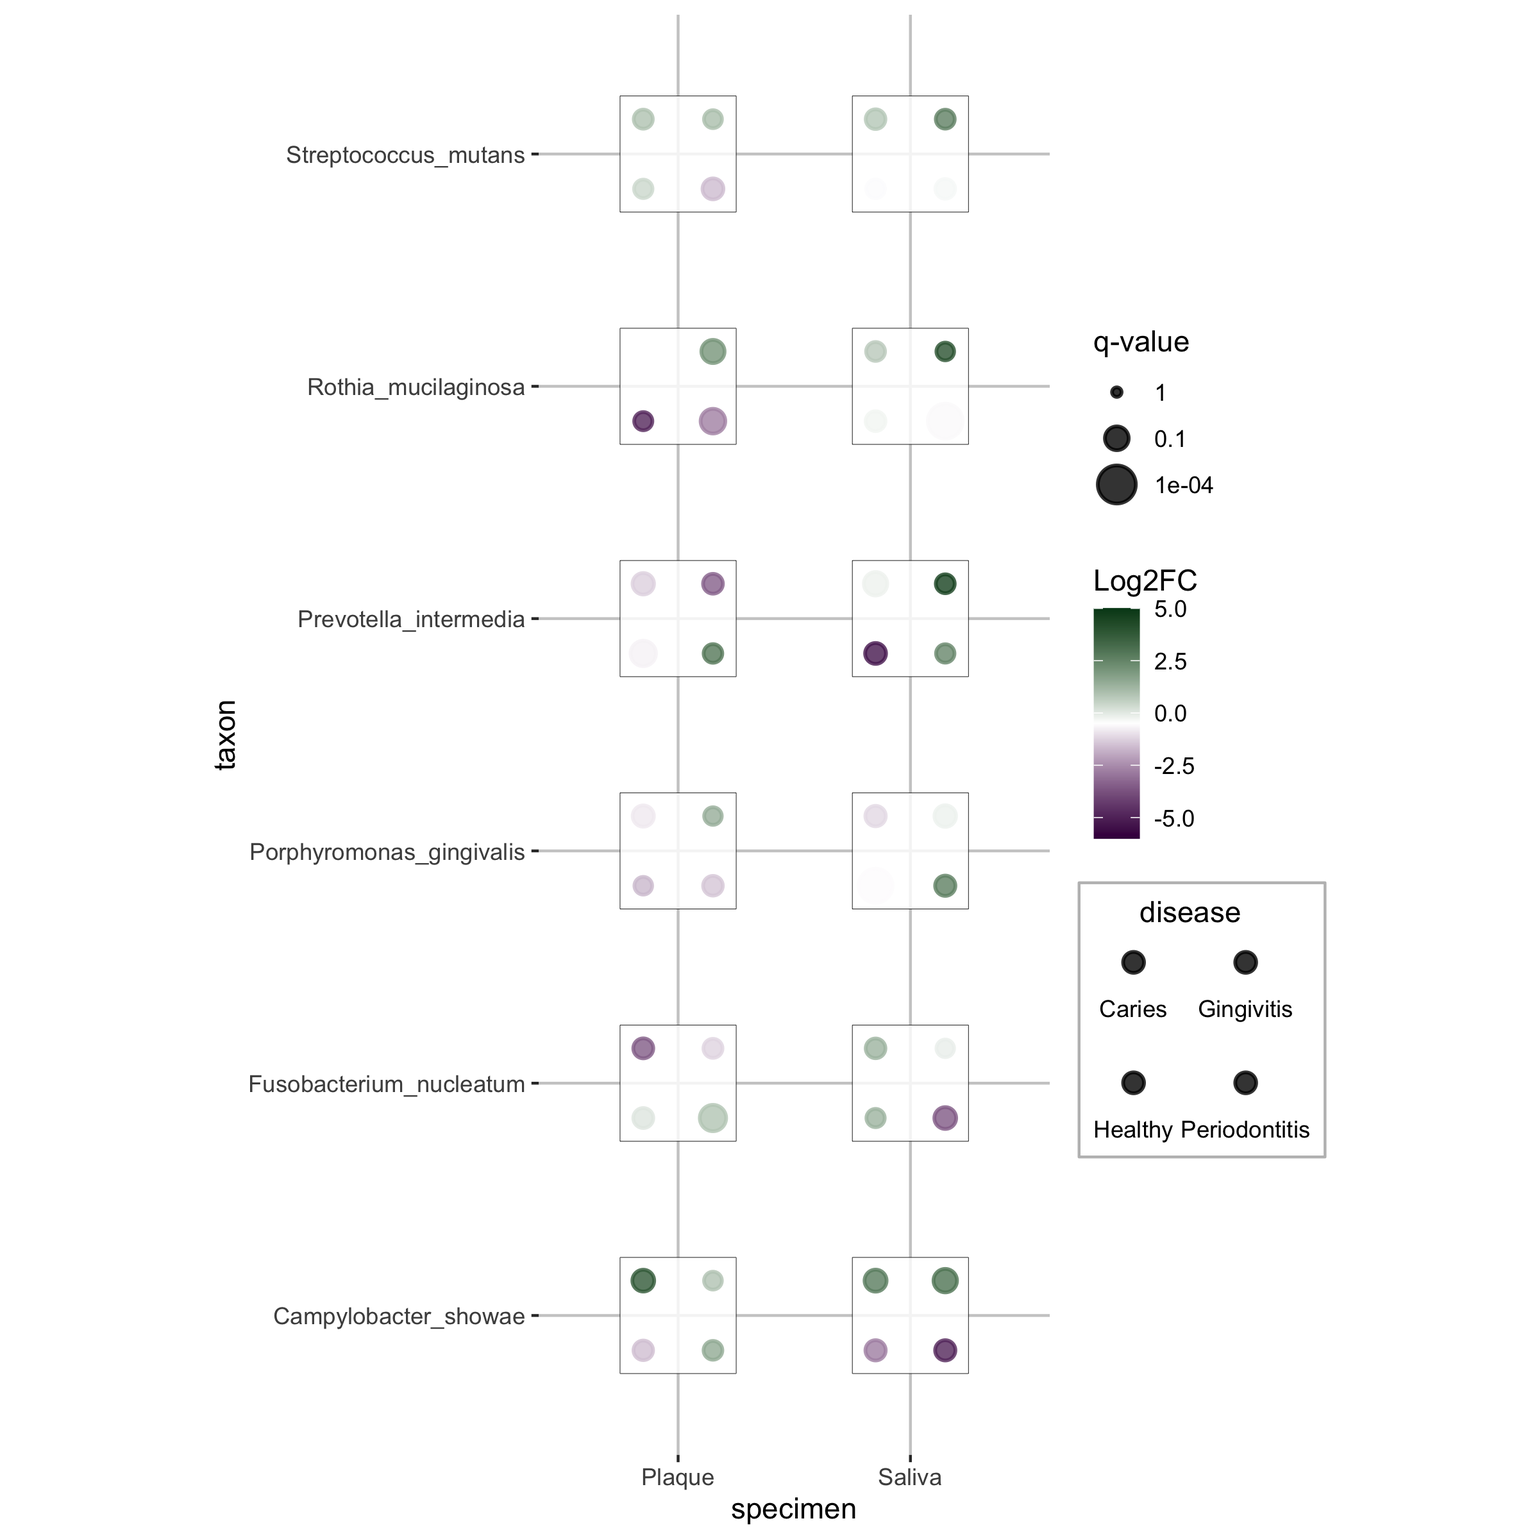
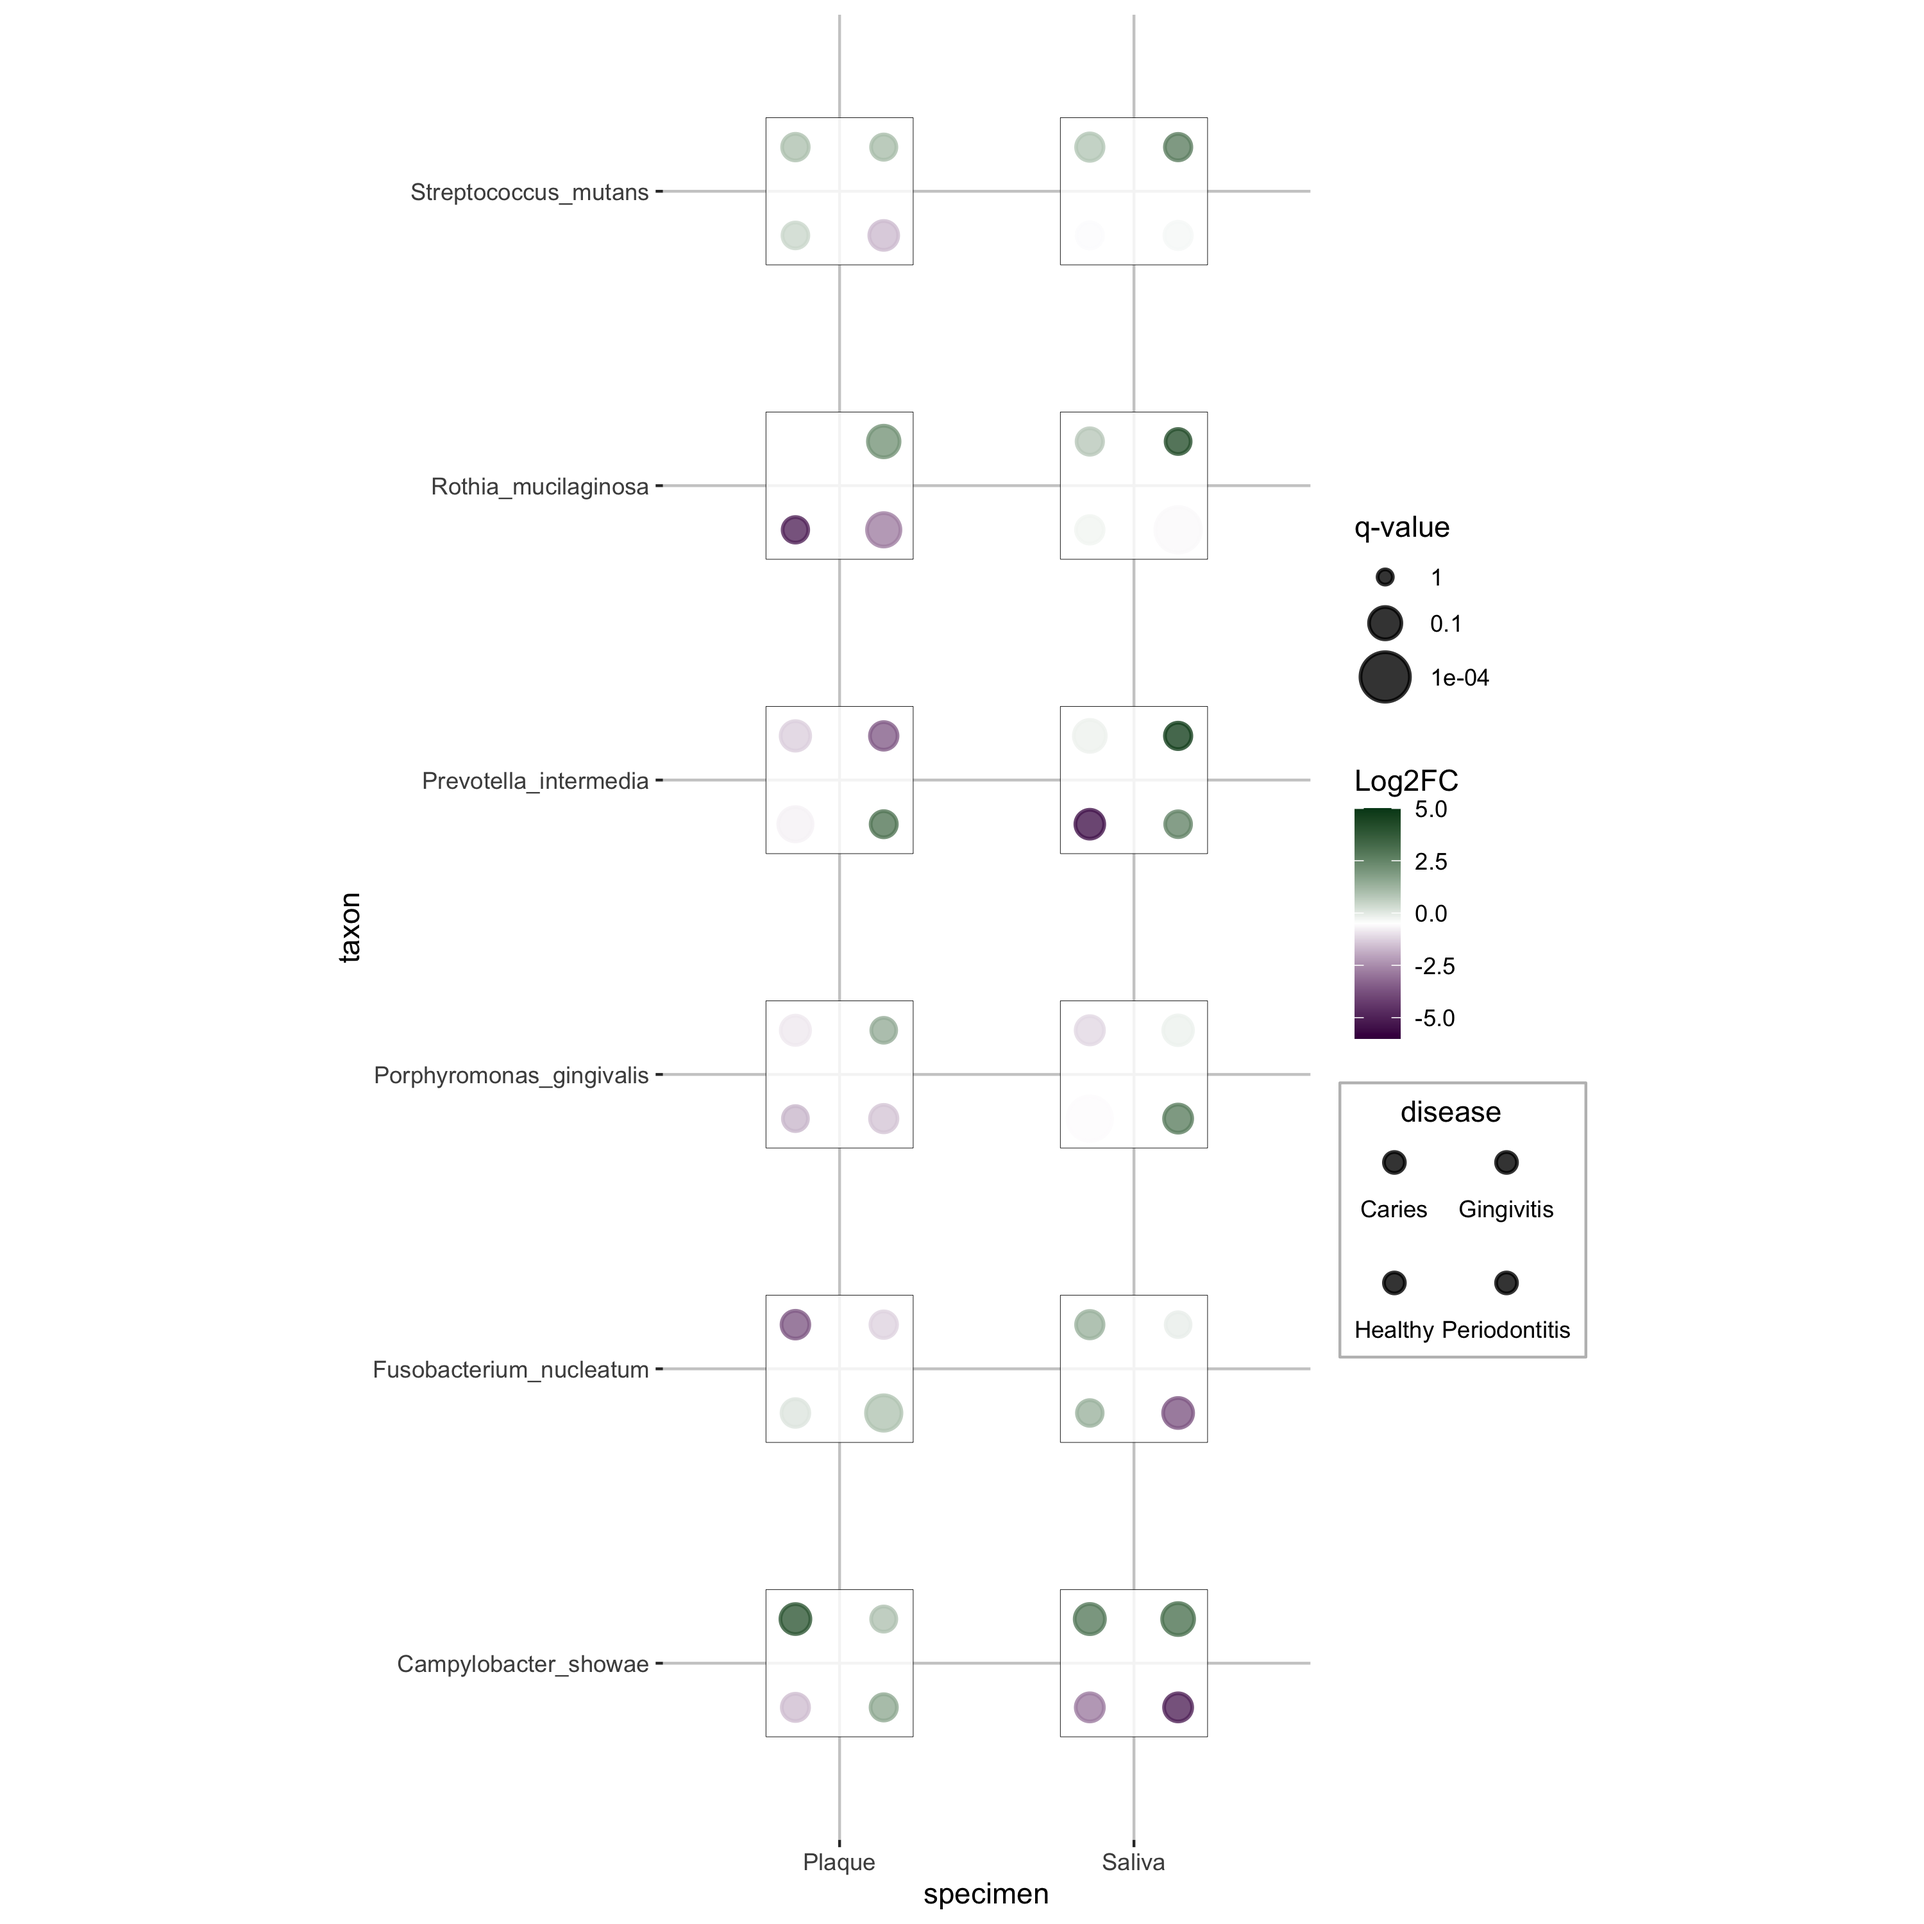
update examples

diff --git a/README.md b/README.md
@@ -15,59 +15,50 @@ A ggplot2 extension for creating dice plot visualizations, where each dice repre
 ```r
 # Install from local directory
 devtools::install_local("path/to/ggdiceplot")
-
-# Or install dependencies manually
-install.packages(c("ggplot2", "tibble"))
 ```
 
 ```r
 install.packages(c("ggdiceplot"))
 ```
 
-## Example: Taxonomy 
+## Example: Taxonomy
 
 ```r
 library(ggplot2)
 library(ggdiceplot)
 
-# Create sample data
 data("sample_dice_data1", package = "ggdiceplot")
-toy_data = sample_dice_data1
-# Effect size
-lo = floor(min(toy_data$lfc, na.rm = TRUE))
-up = ceiling(max(toy_data$lfc, na.rm=TRUE))
-mid = (lo + up)/2
+toy_data <- sample_dice_data1
 
-minsize = floor(min(-log10(toy_data$q), na.rm=TRUE))
-maxsize = ceiling(max(-log10(toy_data$q), na.rm=TRUE))
-midsize = ceiling(quantile(-log10(toy_data$q), c(0.5), na.rm=TRUE))
+lo      <- floor(min(toy_data$lfc, na.rm = TRUE))
+up      <- ceiling(max(toy_data$lfc, na.rm = TRUE))
+mid     <- (lo + up) / 2
+minsize <- floor(min(-log10(toy_data$q), na.rm = TRUE))
+maxsize <- ceiling(max(-log10(toy_data$q), na.rm = TRUE))
+midsize <- ceiling(quantile(-log10(toy_data$q), 0.5, na.rm = TRUE))
 
-#
-## PLOT
-#
-
-ggplot(toy_data, aes(x=specimen, y=taxon)) +
-  geom_dice(aes(dots=disease, fill=lfc, size=-log10(q), 
-                # Square dims
-                width = 0.5, height = 0.5),
-            # For legend display
-            show.legend=TRUE, 
-            # For legend position calculation
-            ndots=length(unique(toy_data$disease)),
-            # For aspect.ratio: ensure squares (now automatic with coord_fixed)
-            x_length = length(unique(toy_data$specimen)), 
-            y_length = length(unique(toy_data$taxon)), 
-  )+
-  scale_fill_continuous(name="lfc") +
-  scale_fill_gradient2(low = "#40004B", high = "#00441B", mid = "white",
-                       na.value = "white", 
-                       limit = c(lo, up),
-                       midpoint = mid, 
-                       name = "Log2FC") +
-  scale_size_continuous(limits = c(minsize, maxsize),
-                        breaks = c(minsize, midsize, maxsize),
-                        labels = c(10^minsize, 10^-midsize, 10^-maxsize),
-                        name = "q-value")
+ggplot(toy_data, aes(x = specimen, y = taxon)) +
+  geom_dice(
+    aes(dots = disease, fill = lfc, size = -log10(q), width = 0.5, height = 0.5),
+    na.rm       = TRUE,
+    show.legend = TRUE,
+    ndots       = length(unique(toy_data$disease)),
+    x_length    = length(unique(toy_data$specimen)),
+    y_length    = length(unique(toy_data$taxon))
+  ) +
+  scale_fill_continuous(name = "lfc") +
+  scale_fill_gradient2(
+    low = "#40004B", high = "#00441B", mid = "white",
+    na.value = "white", limit = c(lo, up), midpoint = mid,
+    name = "Log2FC"
+  ) +
+  scale_size_continuous(
+    range  = c(2, 8),
+    limits = c(minsize, maxsize),
+    breaks = c(minsize, midsize, maxsize),
+    labels = c(10^minsize, 10^-midsize, 10^-maxsize),
+    name   = "q-value"
+  )
 ```
 
 ![](demo_output/example1.png)
@@ -75,51 +66,19 @@ ggplot(toy_data, aes(x=specimen, y=taxon)) +
 ## Example: miRNA dysregulation
 
 ```r
-## ---- SETUP ----
 library(ggplot2)
 library(ggdiceplot)
 
-## ---- LOAD SAMPLE DATA (from package) ----
-# If internal dataset exists, use it; otherwise fall back to df_dice
-if ("sample_dice_miRNA" %in% data(package="ggdiceplot")$results[, "Item"]) {
-  data("sample_dice_miRNA", package = "ggdiceplot")
-  df_dice <- sample_dice_miRNA
-} else {
-  message("sample_dice_miRNA not found in package — using inline example.")
-  
-  df_dice <- data.frame(
-    miRNA = c("miR-1","miR-1","miR-1","miR-2","miR-2","miR-2","miR-3","miR-3"),
-    Compound = c("Compound_1","Compound_1","Compound_2","Compound_1","Compound_2","Compound_3","Compound_3","Compound_1"),
-    Organ = c("Lung","Brain","Liver","Lung","Liver","Brain","Liver","Brain"),
-    log2FC = c(1.2,-0.8,0.3,-1.1,0.6,2,-0.5,1.5)
-  )
-  
-  df_dice$direction <- ifelse(df_dice$log2FC > 0.5, "Up",
-                              ifelse(df_dice$log2FC < -0.5, "Down","Unchanged"))
-  
-  df_dice$Organ     <- factor(df_dice$Organ, levels = c("Lung","Liver","Brain"))
-  df_dice$direction <- factor(df_dice$direction, levels = c("Down","Unchanged","Up"))
-  df_dice$Compound  <- factor(df_dice$Compound, levels = c("Compound_1","Compound_2","Compound_3"))
-  df_dice$miRNA     <- factor(df_dice$miRNA)
-}
+data("sample_dice_miRNA", package = "ggdiceplot")
+df_dice <- sample_dice_miRNA
 
-## ---- COLORS ----
-direction_colors <- c(
-  Down      = "#2166ac",
-  Unchanged = "grey80",
-  Up        = "#b2182b"
-)
+direction_colors <- c(Down = "#2166ac", Unchanged = "grey80", Up = "#b2182b")
 
-## ---- PLOT ----
-p_dice <- ggplot(df_dice, aes(x = miRNA, y = Compound)) +
+ggplot(df_dice, aes(x = miRNA, y = Compound)) +
   geom_dice(
-    aes(
-      dots  = Organ,
-      fill  = direction,
-      width = 0.8,
-      height = 0.8
-    ),
+    aes(dots = Organ, fill = direction, width = 0.8, height = 0.8),
     show.legend = TRUE,
+    pip_fill    = 1.0,
     ndots       = length(levels(df_dice$Organ)),
     x_length    = length(levels(df_dice$miRNA)),
     y_length    = length(levels(df_dice$Compound))
@@ -136,12 +95,11 @@ p_dice <- ggplot(df_dice, aes(x = miRNA, y = Compound)) +
     x = "miRNA",
     y = "Compound"
   )
-
-print(p_dice)
 ```
-![](demo_output/example2.png)
 
-## Example 3: ZEBRA Domino Plot
+![](demo_output/example_miRNA.png)
+
+## Example: ZEBRA Domino Plot
 
 This example demonstrates using `geom_dice()` to create a domino plot for gene expression analysis across multiple diseases and cell types.
 
@@ -151,82 +109,61 @@ library(ggdiceplot)
 library(dplyr)
 library(tidyr)
 
-# Load ZEBRA dataset
 zebra.df <- read.csv("legacy examples/data/ZEBRA_sex_degs_set.csv")
-
-# Select genes of interest
 genes <- c("SPP1", "APOE", "SERPINA1", "PINK1", "ANGPT1", "ANGPT2", "APP", "CLU", "ABCA7")
 
-# Filter and prepare data
-zebra.df <- zebra.df %>% 
+zebra.df <- zebra.df %>%
   filter(gene %in% genes) %>%
   filter(contrast %in% c("MS-CT", "AD-CT", "ASD-CT", "FTD-CT", "HD-CT")) %>%
   mutate(
     cell_type = factor(cell_type, levels = sort(unique(cell_type))),
-    contrast = factor(contrast, levels = c("MS-CT", "AD-CT", "ASD-CT", "FTD-CT", "HD-CT")),
-    gene = factor(gene, levels = genes)
+    contrast  = factor(contrast, levels = c("MS-CT", "AD-CT", "ASD-CT", "FTD-CT", "HD-CT")),
+    gene      = factor(gene, levels = genes)
   ) %>%
   filter(PValue < 0.05) %>%
   group_by(gene, cell_type, contrast) %>%
-  summarise(
-    logFC = mean(logFC, na.rm = TRUE),
-    FDR = min(FDR, na.rm = TRUE),
-    .groups = "drop"
-  ) %>%
-  complete(gene, cell_type, contrast, fill = list(logFC = NA, FDR = NA))
+  summarise(logFC = mean(logFC, na.rm = TRUE), FDR = min(FDR, na.rm = TRUE), .groups = "drop") %>%
+  complete(gene, cell_type, contrast, fill = list(logFC = NA_real_, FDR = NA_real_))
 
-# Calculate scale limits
-lo <- floor(min(zebra.df$logFC, na.rm = TRUE))
-up <- ceiling(max(zebra.df$logFC, na.rm = TRUE))
-mid <- (lo + up) / 2
-
+lo      <- floor(min(zebra.df$logFC, na.rm = TRUE))
+up      <- ceiling(max(zebra.df$logFC, na.rm = TRUE))
+mid     <- (lo + up) / 2
 minsize <- floor(min(-log10(zebra.df$FDR), na.rm = TRUE))
 maxsize <- ceiling(max(-log10(zebra.df$FDR), na.rm = TRUE))
-midsize <- ceiling(quantile(-log10(zebra.df$FDR), c(0.5), na.rm = TRUE))
+midsize <- ceiling(quantile(-log10(zebra.df$FDR), 0.5, na.rm = TRUE))
 
-# Create domino plot
 ggplot(zebra.df, aes(x = gene, y = cell_type)) +
   geom_dice(
-    aes(
-      dots = contrast,
-      fill = logFC,
-      size = -log10(FDR)
-    ),
-    na.rm = TRUE,
+    aes(dots = contrast, fill = logFC, size = -log10(FDR)),
+    na.rm       = TRUE,
     show.legend = TRUE,
-    ndots = 5,  # We have 5 contrasts
-    x_length = length(genes),
-    y_length = length(unique(zebra.df$cell_type))
+    ndots       = 5,
+    x_length    = length(genes),
+    y_length    = length(unique(zebra.df$cell_type))
   ) +
   scale_fill_gradient2(
-    low = "#40004B",
-    high = "#00441B",
-    mid = "white",
-    na.value = "white",
-    limit = c(lo, up),
-    midpoint = mid,
+    low = "#40004B", high = "#00441B", mid = "white",
+    na.value = "white", limit = c(lo, up), midpoint = mid,
     name = "Log2FC"
   ) +
   scale_size_continuous(
     limits = c(minsize, maxsize),
     breaks = c(minsize, midsize, maxsize),
     labels = c(10^minsize, 10^-midsize, 10^-maxsize),
-    name = "FDR"
+    name   = "FDR"
   ) +
   theme_minimal() +
   theme(
-    axis.text.x = element_text(angle = 45, hjust = 1, size = 12),
-    axis.text.y = element_text(size = 12),
-    legend.text = element_text(size = 12),
-    legend.title = element_text(size = 12),
-    legend.key = element_blank(),
+    axis.text.x     = element_text(angle = 45, hjust = 1, size = 12),
+    axis.text.y     = element_text(size = 12),
+    legend.text     = element_text(size = 12),
+    legend.title    = element_text(size = 12),
+    legend.key      = element_blank(),
     legend.key.size = unit(0.8, "cm")
   ) +
-  labs(
-    x = "Gene",
-    y = "Cell Type",
-    title = "ZEBRA Sex DEGs Domino Plot"
-  )
+  labs(x = "Gene", y = "Cell Type", title = "ZEBRA Sex DEGs Domino Plot")
+
+ggsave("ZEBRA_domino_example.png", width = 12, height = 14, dpi = 300)
 ```
 
 ![](demo_output/ZEBRA_domino_example.png)
@@ -234,40 +171,35 @@ ggplot(zebra.df, aes(x = gene, y = cell_type)) +
 ## Features
 
 - **1:1 Aspect Ratio**: Dice automatically appear as perfect squares using `coord_fixed(ratio = 1)`
-- **Automatic Sizing**: Dice automatically scale based on grid density
-- **Boundary Safety**: Dice stay within plot boundaries
-- **Flexible Mapping**: Map any categories to dice positions 1-6
+- **Automatic Pip Scaling**: `pip_fill` (0–1) controls pip diameter as a fraction of the maximum available space. `pip_fill = 1.0` fills the die face fully; set to `NULL` to use a fixed size
+- **Boundary Safety**: Pips never exceed tile borders; positions shift inward as density increases
+- **Flexible Mapping**: Map any categories to dice positions 1–6
 - **Multiple Applications**: Gene expression, survey data, clinical trials, market research
-- **Customizable**: Control dice size, colors, and positioning
+- **Customizable**: Control dice size, colors, pip density, and positioning
 
-## Important Update
+## Key Parameters
 
-**Automatic Aspect Ratio Control**: As of the latest version, `geom_dice()` automatically applies `coord_fixed(ratio = 1)` to ensure dice appear as perfect squares. The `x_length` and `y_length` parameters are maintained for compatibility but no longer affect aspect ratio.
+| Parameter | Description |
+|-----------|-------------|
+| `dots` | Aesthetic mapping — which category occupies which pip position |
+| `pip_fill` | Pip diameter as fraction of max space (default `0.75`; `1.0` = tight fill; `NULL` = fixed size) |
+| `ndots` | Number of pip positions on each die face (1–6) |
+| `x_length`, `y_length` | Grid dimensions (used for aspect ratio) |
+| `na.rm` | Drop observations with missing size/fill values |
 
 ## Key Functions
 
 - `geom_dice()`: Main geom for creating dice plots with automatic 1:1 aspect ratio
 - `theme_dice()`: Minimal theme optimized for dice plots
-- `create_dice_positions()`: Generate standard dice dot positions
-- `make_offsets()`: Calculate dice dot positions for rendering
+- `create_dice_positions()`: Generate standard dice dot position layouts
+- `make_offsets()`: Calculate pip positions for rendering
 
-## Demo Examples
+## Running the Examples
 
-See the `demo_output/` directory for:
-- Basic functionality examples
-- Real-world usage scenarios (ZEBRA gene expression analysis)
-- Boundary validation tests
-- Custom sizing demonstrations
-
-Run the demo scripts:
 ```bash
-cd demo_output
-Rscript create_demo_plots.R
-Rscript usage_examples.R
-
-# Run the ZEBRA domino example
-cd examples
-Rscript zebra_domino_example.R
+# From the project root
+Rscript demo_output/create_demo_plots.R
+Rscript test_simple_dice.R
 ```
 
 ## Package Structure
@@ -275,21 +207,14 @@ Rscript zebra_domino_example.R
 - `R/`: Core package functions
 - `data/`: Sample datasets
 - `demo_output/`: Example plots and output images
-- `examples/`: Real-world usage examples (ZEBRA domino plot)
+- `examples/`: Real-world usage examples
 - `legacy examples/`: Legacy examples and data files
 - `man/`: Documentation files
-- `inst/`: Package installation files
-
-## Documentation
-
-- Package functions: `help(package = "ggdiceplot")`
-- Main function: `?geom_dice`
-- Vignette: `vignette("introduction", package = "ggdiceplot")`
 
 ## Citation
 
 If you use this code or the R and Python packages for your own work, please cite diceplot as:
-  
+
 > M. Flotho, P. Flotho, A. Keller, "Diceplot: A package for high dimensional categorical data visualization," arxiv, 2024. [doi:10.48550/arXiv.2410.23897](https://doi.org/10.48550/arXiv.2410.23897)
 
 BibTeX entry:
